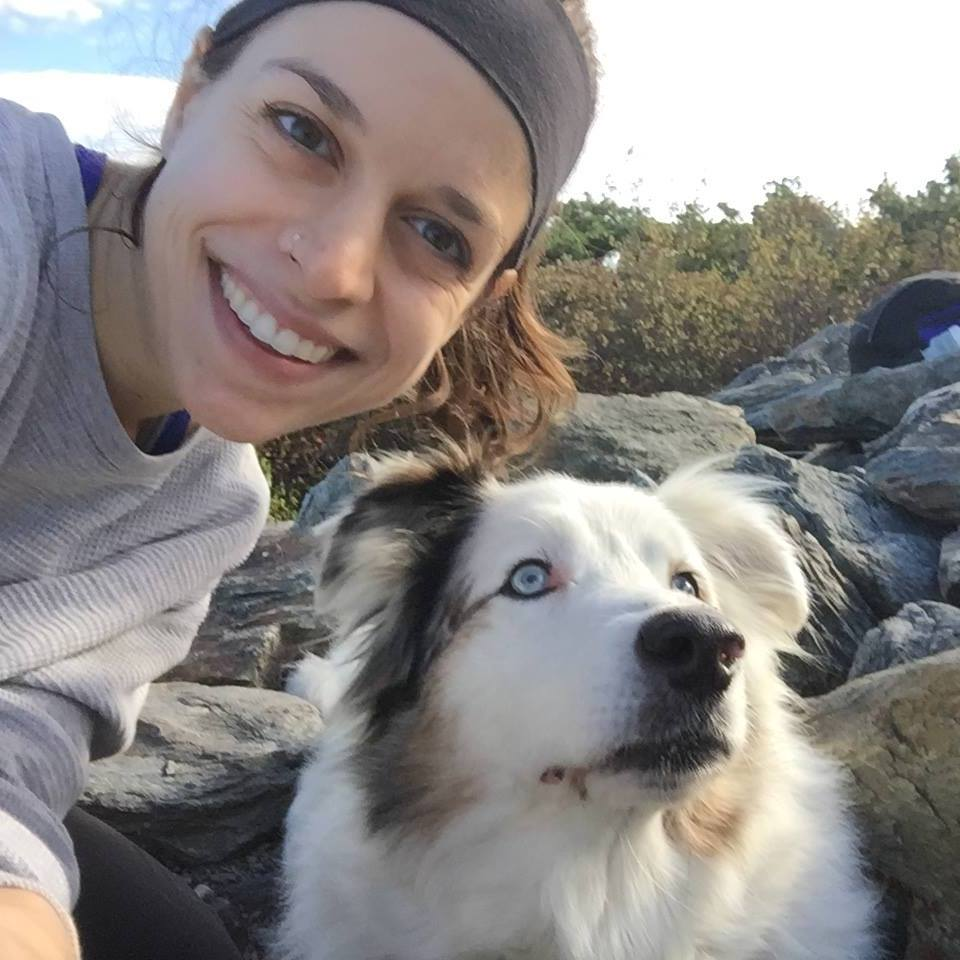
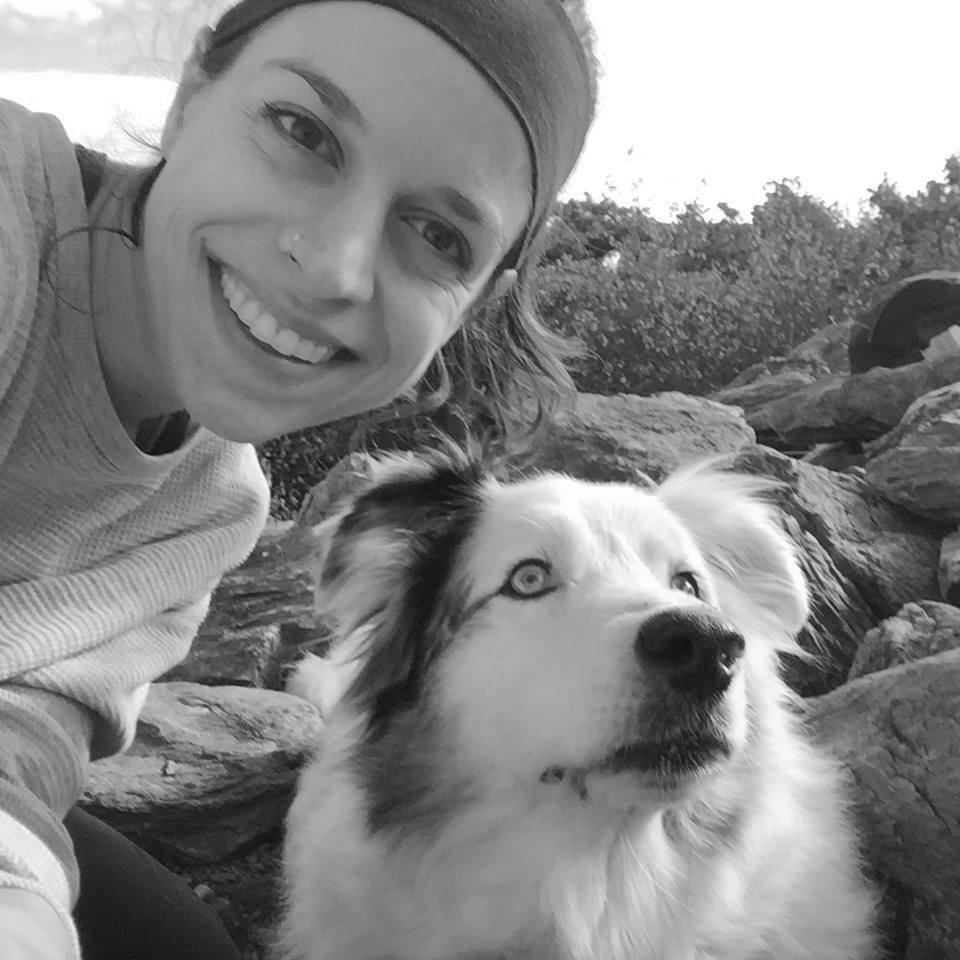
change profile photo to b&w

diff --git a/CSS/styles.css b/CSS/styles.css
@@ -89,6 +89,13 @@ ul li {
 	align-content: flex-start;
 }
 
+.hannah {
+	max-width: 6em;
+	border-radius: 50%;
+	padding: 2em;
+	float: left;
+}
+
 .lower-content {
 	padding: 4em;
 }
